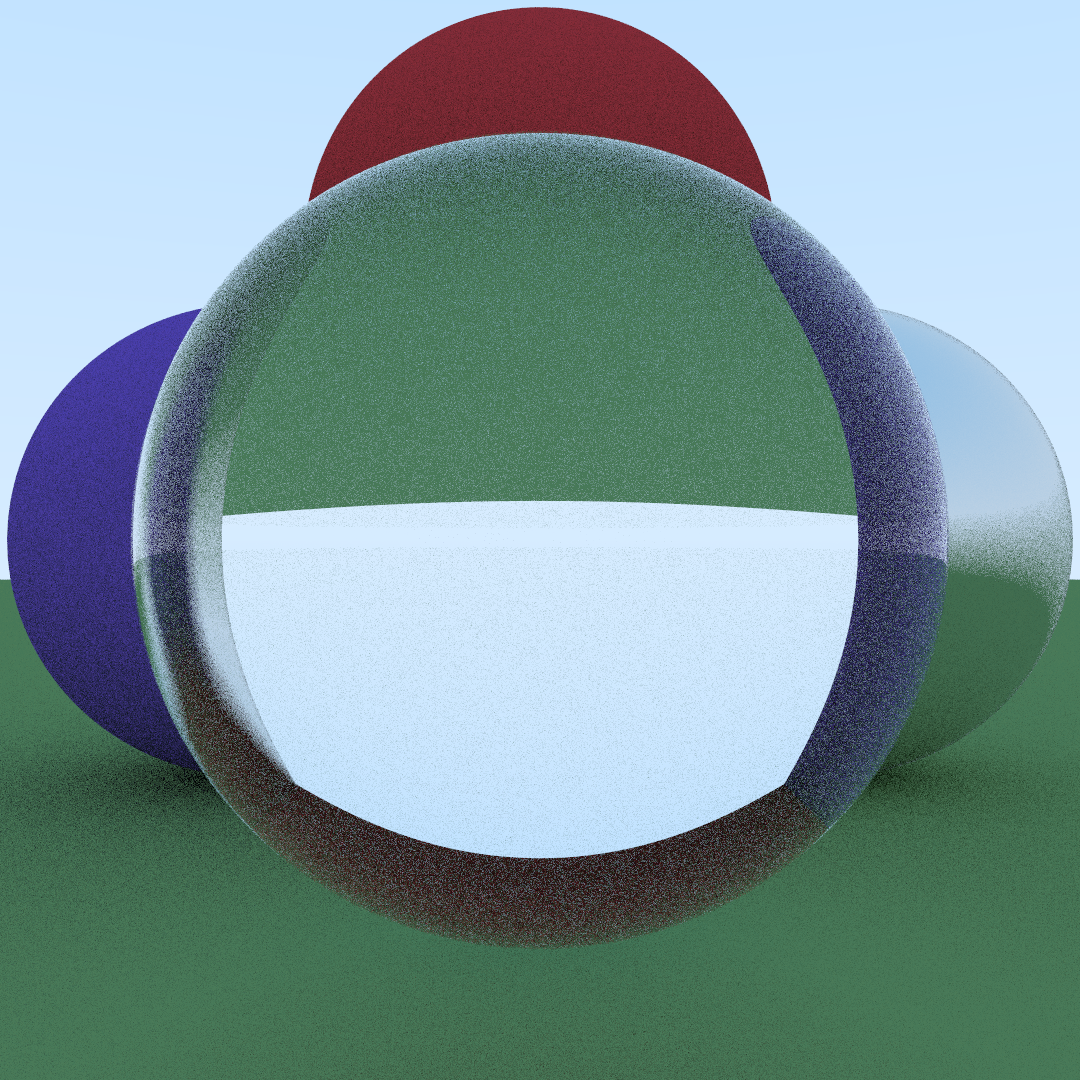
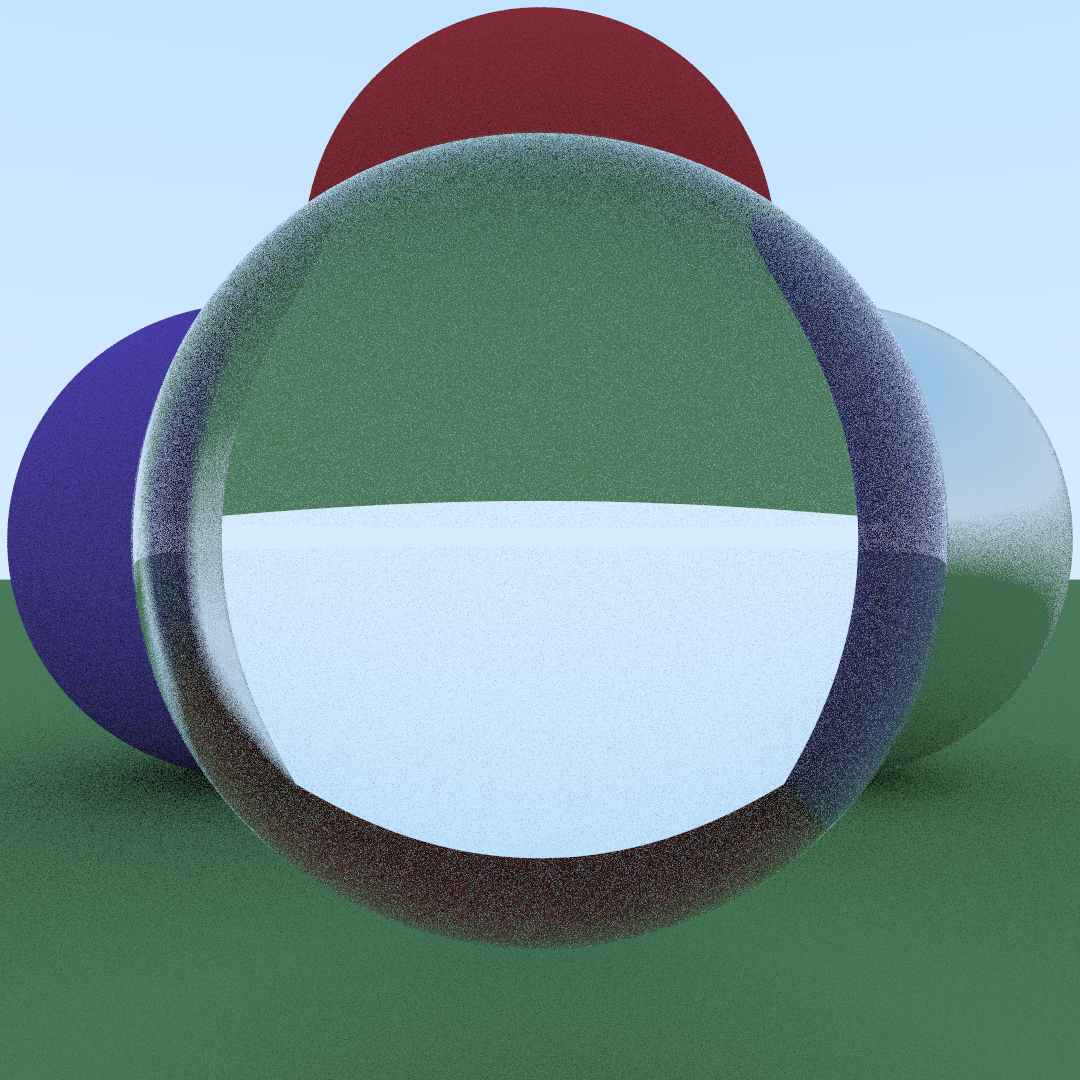
Replaced rand with fastrand

Changed region(s): [[0.0, 0.0611, 1.0, 0.8861]]

diff --git a/src/camera.rs b/src/camera.rs
@@ -5,7 +5,6 @@ use crate::{
     vec3::{Color, Point, Vec3},
 };
 use image::RgbImage;
-use rand::random;
 use rayon::iter::ParallelIterator;
 
 const MAX_DEPTH: i32 = 10;
@@ -83,8 +82,8 @@ impl Camera {
             for i in 0..sample_axis {
                 for j in 0..sample_axis {
                     let ray_dir = pixel_dir
-                        + (i as f64 + random::<f64>()) * cell_delta_x
-                        + (j as f64 + random::<f64>()) * cell_delta_y;
+                        + (i as f64 + fastrand::f64()) * cell_delta_x
+                        + (j as f64 + fastrand::f64()) * cell_delta_y;
                     let ray = Ray::new(self.center, ray_dir);
                     color += ray_color(&ray, ray_t, scene, MAX_DEPTH);
                 }

diff --git a/src/vec3.rs b/src/vec3.rs
@@ -1,5 +1,4 @@
 use image::Rgb;
-use rand::random;
 use std::{
     array::{self}, ops::{Add, AddAssign, Div, DivAssign, Mul, MulAssign, Neg, Sub, SubAssign},
 };
@@ -91,7 +90,7 @@ impl Vec3 {
 
     pub fn random_unit_vec() -> Vec3 {
         loop {
-            let vec = Vec3::from_array(array::from_fn(|_| random::<f64>() * 2.0 - 1.0));
+            let vec = Vec3::from_array(array::from_fn(|_| fastrand::f64() * 2.0 - 1.0));
             let len_sq = vec.length_squared();
             if len_sq > 1e-160 && len_sq <= 1.0 {
                 return vec / len_sq.sqrt();

diff --git a/src/material.rs b/src/material.rs
@@ -96,7 +96,7 @@ impl Material for Refractive {
         let sin_theta = (1.0 - cos_theta * cos_theta).sqrt();
         let cannot_refract = refract_ratio * sin_theta > 1.0;
 
-        let new_dir = if cannot_refract || reflectance(refract_ratio, cos_theta) > rand::random() {
+        let new_dir = if cannot_refract || reflectance(refract_ratio, cos_theta) > fastrand::f64() {
             ray_in.direction().reflect(hit.normal)
         } else {
             ray_in.direction().refract(hit.normal, refract_ratio)
